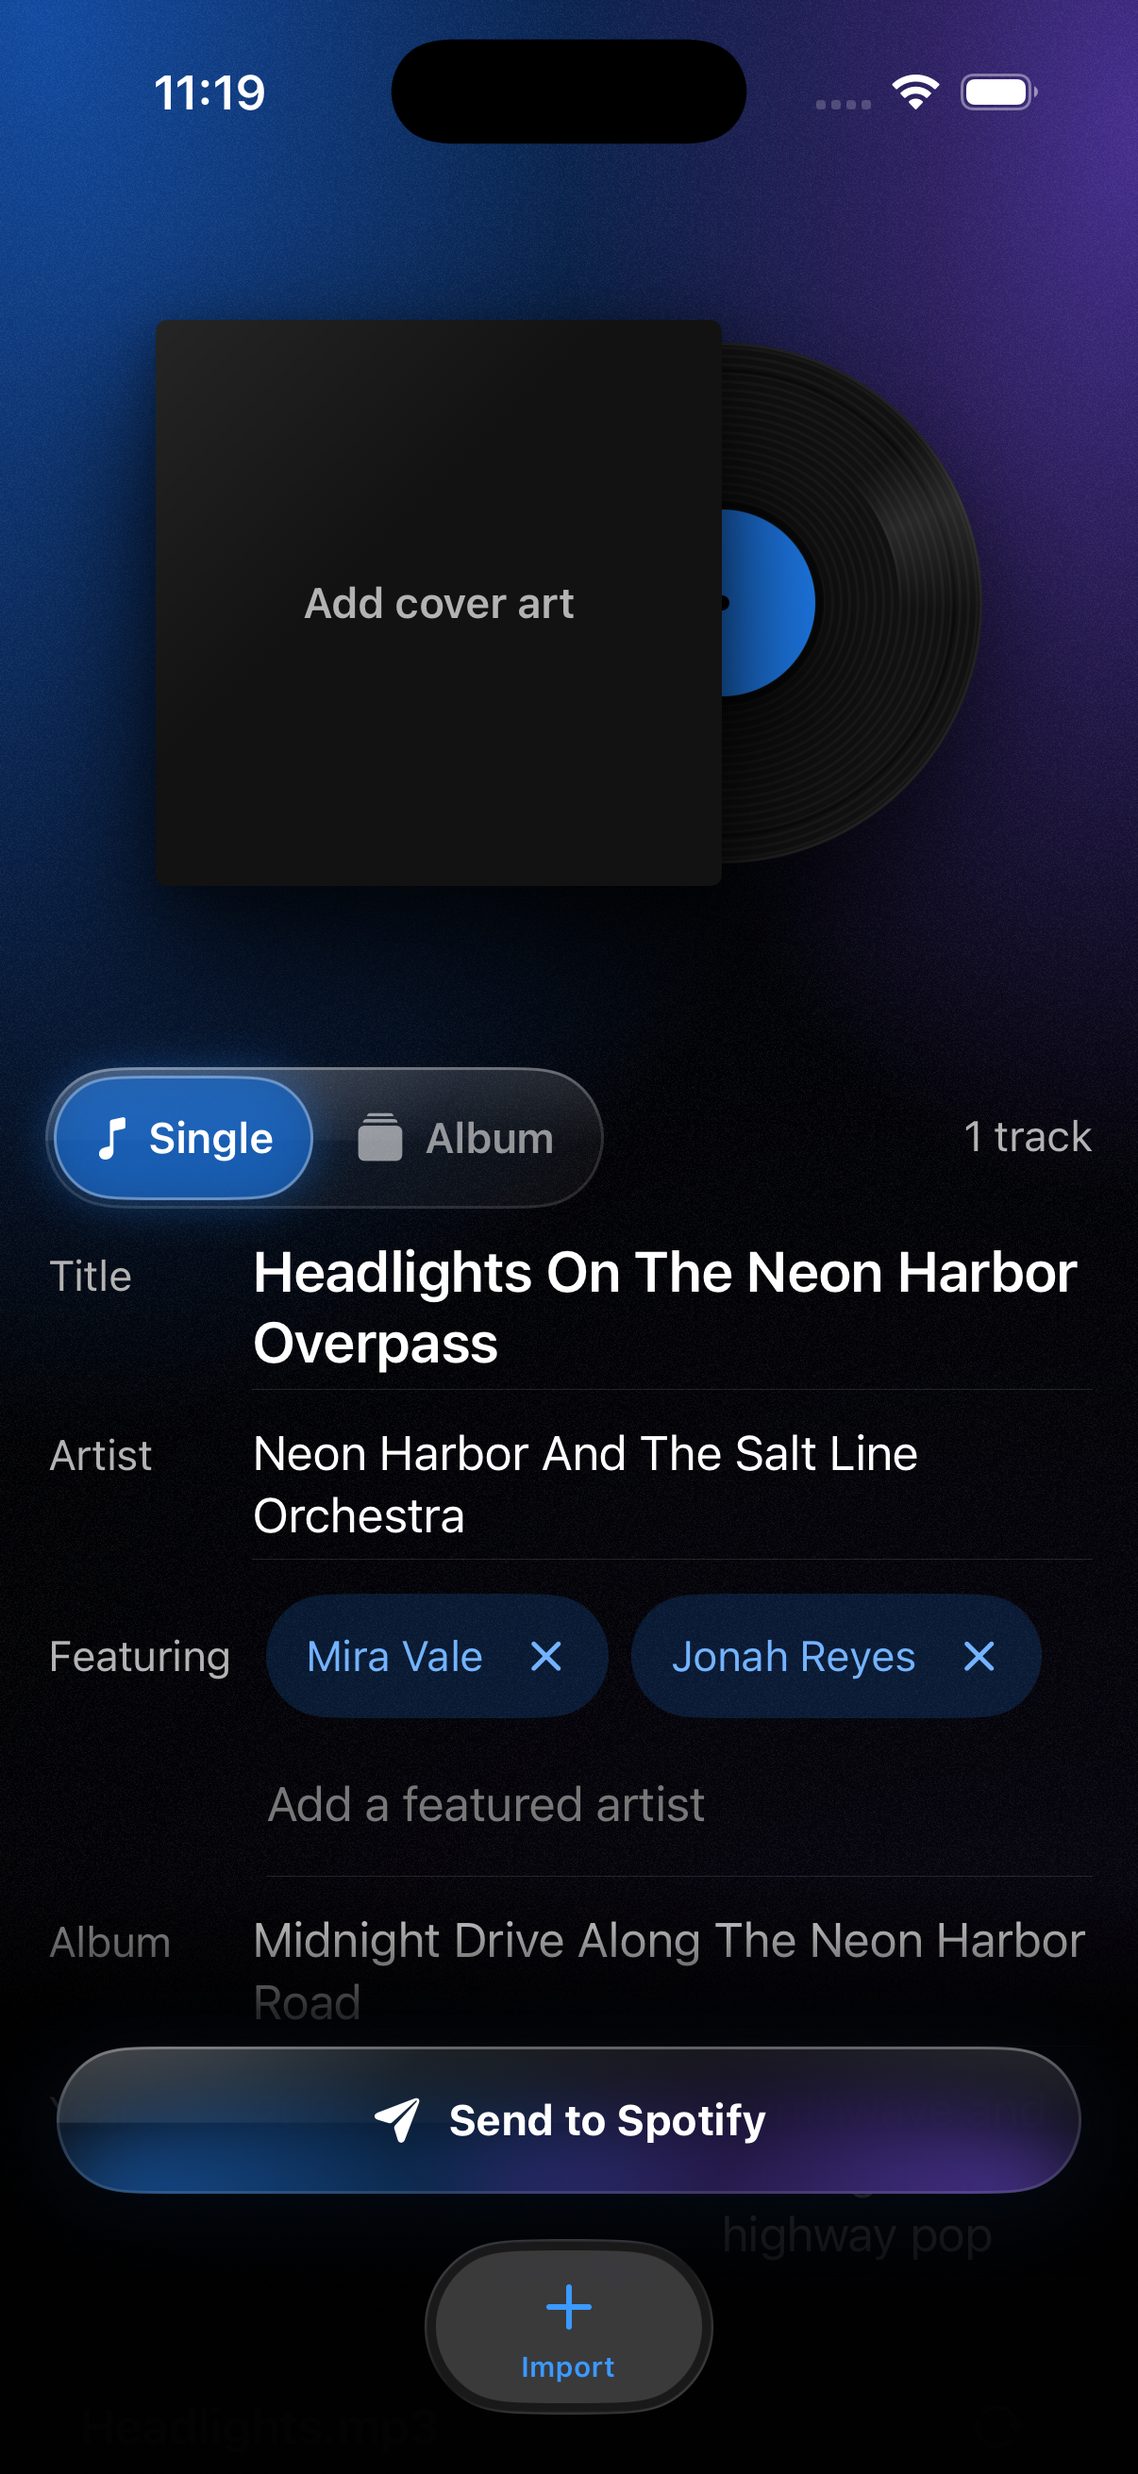
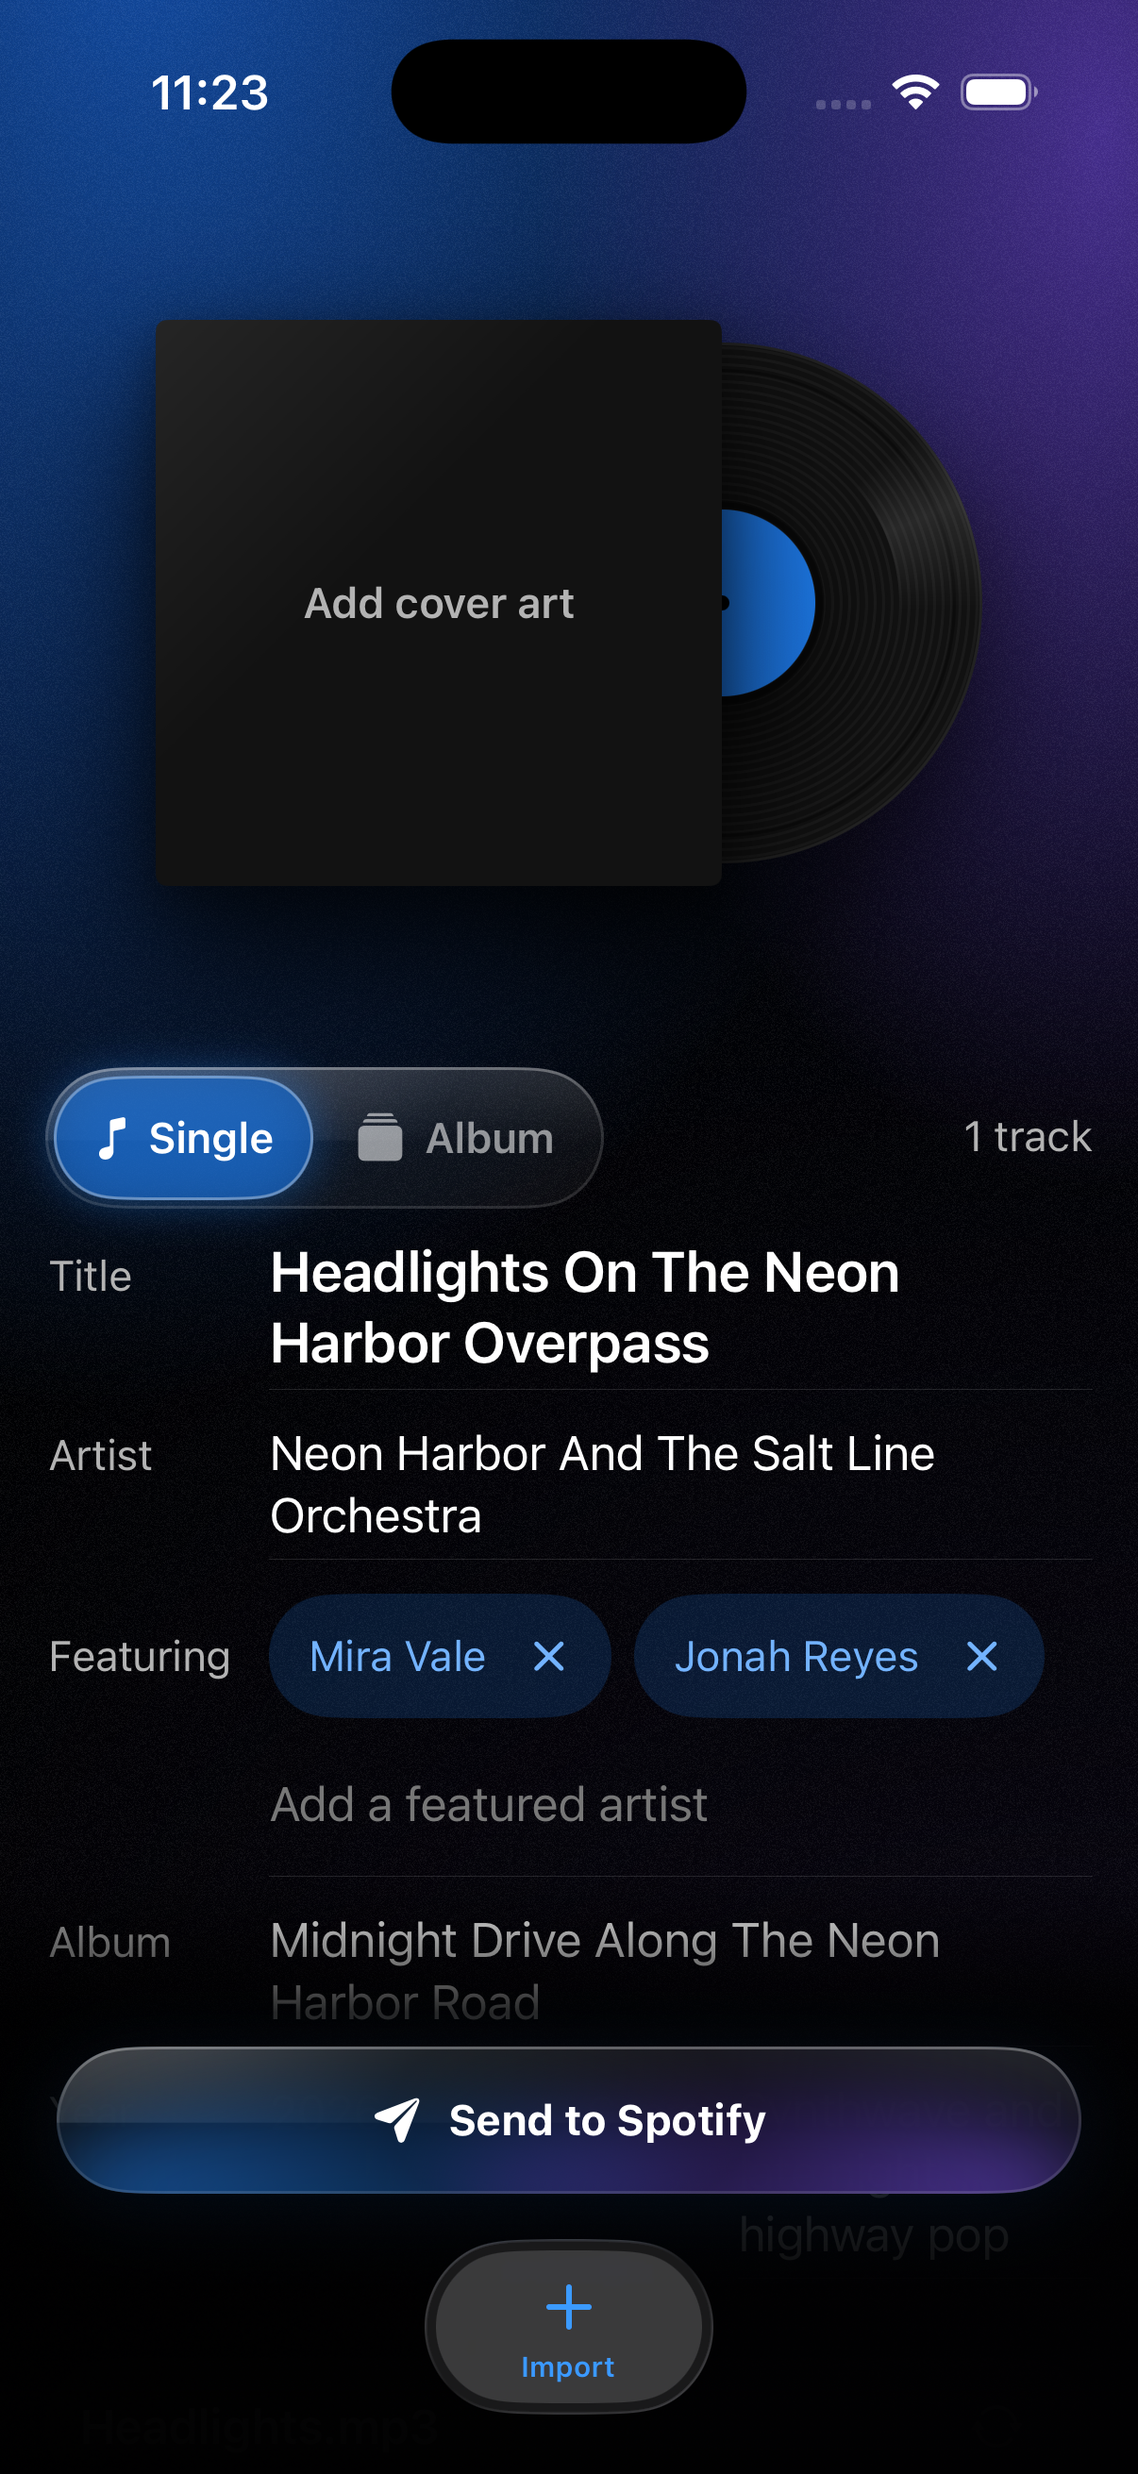
Featuring on the iPhone: aligned row, no hidden character, legacy singles kept (#287)
Claude-Session: https://claude.ai/code/session_016wtvpvRFjMyGctvKw2v9pz

diff --git a/apps/ios/Locally/Views/Components/FeaturingField.swift b/apps/ios/Locally/Views/Components/FeaturingField.swift
@@ -54,7 +54,7 @@ enum FlowLayoutFill: LayoutValueKey {
 
 /// The Featuring row (#287), in `LabeledField`'s style: the names as capsule pills that wrap, each
 /// with a remove button, and a text field to add more. Return or a comma adds the typed name,
-/// Delete in an empty field removes the last pill, and the keyboard offers the library's artists.
+/// the remove buttons take pills away, and the keyboard offers the library's artists.
 /// Read-only, it is the plain "Featuring B, C" row, left out when there are no names.
 struct FeaturingField: View {
     @Binding var names: [String]
@@ -65,7 +65,6 @@ struct FeaturingField: View {
     var autofocus = false
 
     @FocusState private var focused: Bool
-    @State private var raw = FeaturingNames.backspaceSentinel
     @State private var index: [ArtistEntry]?
     @Environment(\.appContainer) private var container
     @Environment(\.displayScale) private var displayScale
@@ -83,7 +82,7 @@ struct FeaturingField: View {
                     index = ArtistIndex.build((try? container.library.all()) ?? [])
                 }
         } else if !names.isEmpty {
-            LabeledField(Copy.Featuring.field, placeholder: "", text: .constant(Copy.Featuring.viewValue(names)), wraps: true, labelFits: true, isEditable: false)
+            LabeledField(Copy.Featuring.field, placeholder: "", text: .constant(Copy.Featuring.viewValue(names)), wraps: true, isEditable: false)
         }
     }
 
@@ -98,9 +97,7 @@ struct FeaturingField: View {
                 }
             } else {
                 HStack(alignment: .top, spacing: Theme.Immersive.labeledFieldLabelGap) {
-                    // "Featuring" is wider than the shared label column: it takes its own width rather than
-                    // breaking mid-word.
-                    label.frame(minWidth: labelWidth, alignment: .leading).fixedSize(horizontal: true, vertical: false)
+                    label.frame(width: labelWidth, alignment: .leading)
                     value
                 }
             }
@@ -164,50 +161,33 @@ struct FeaturingField: View {
         .background(Capsule().fill(Theme.accent.opacity(0.18)))
     }
 
-    /// The text field. Its text always starts with a zero-width character, so that Delete with
-    /// nothing typed still changes the text and the last pill can go.
     private var entry: some View {
-        ZStack(alignment: .leading) {
-            if draft.isEmpty {
-                Text(Copy.Featuring.placeholder)
-                    .font(Theme.ScaledFont.input)
-                    .foregroundStyle(Theme.textDim)
-                    .allowsHitTesting(false)
-                    .accessibilityHidden(true)
+        TextField("", text: $draft, prompt: Text(Copy.Featuring.placeholder).foregroundColor(Theme.textDim))
+            .font(Theme.ScaledFont.input)
+            .foregroundStyle(Theme.primaryText)
+            .focused($focused)
+            .submitLabel(.done)
+            .autocorrectionDisabled()
+            .accessibilityLabel(Copy.Featuring.placeholder)
+            .frame(minWidth: 140, minHeight: 44, alignment: .leading)
+            .onChange(of: draft) { _, newValue in absorbCommas(newValue) }
+            .onSubmit {
+                commit()
+                focused = true
             }
-            TextField("", text: $raw)
-                .font(Theme.ScaledFont.input)
-                .foregroundStyle(Theme.primaryText)
-                .focused($focused)
-                .submitLabel(.done)
-                .autocorrectionDisabled()
-                .accessibilityLabel(Copy.Featuring.placeholder)
-                .accessibilityValue(draft)
-                .onSubmit {
-                    commit()
-                    focused = true
-                }
-        }
-        .frame(minWidth: 140, minHeight: 44, alignment: .leading)
-        .onChange(of: raw) { _, newValue in read(newValue) }
-        .onChange(of: draft) { _, newValue in
-            if FeaturingNames.readField(raw).typed != newValue { raw = FeaturingNames.backspaceSentinel + newValue }
-        }
-        .onChange(of: focused) { _, isFocused in
-            if !isFocused { commit() }
-        }
-        .toolbar {
-            if focused, !pills.isEmpty {
-                ToolbarItemGroup(placement: .keyboard) {
-                    ArtistPillRow(entries: pills) { entry in
-                        names = FeaturingNames.add(entry.display, to: names)
-                        draft = ""
-                        raw = FeaturingNames.backspaceSentinel
+            .onChange(of: focused) { _, isFocused in
+                if !isFocused { commit() }
+            }
+            .toolbar {
+                if focused, !pills.isEmpty {
+                    ToolbarItemGroup(placement: .keyboard) {
+                        ArtistPillRow(entries: pills) { entry in
+                            names = FeaturingNames.add(entry.display, to: names)
+                            draft = ""
+                        }
                     }
                 }
             }
-        }
-        .onAppear { raw = FeaturingNames.backspaceSentinel + draft }
     }
 
     private var pills: [ArtistEntry] {
@@ -217,26 +197,18 @@ struct FeaturingField: View {
         return Array(found.filter { !taken.contains($0.key) }.prefix(Self.pillLimit))
     }
 
-    private func read(_ newValue: String) {
-        let field = FeaturingNames.readField(newValue)
-        if field.deletedEmpty {
-            names = FeaturingNames.removeLast(names)
-            raw = FeaturingNames.backspaceSentinel
-            draft = ""
-            return
-        }
+    /// A comma ends a name: the complete ones become pills, the rest stays in the field.
+    private func absorbCommas(_ newValue: String) {
+        guard newValue.contains(",") else { return }
         var updated = names
-        let rest = FeaturingNames.absorbCommas(field.typed, into: &updated)
-        if updated != names { names = updated }
+        let rest = FeaturingNames.absorbCommas(newValue, into: &updated)
+        names = updated
         draft = rest
-        let wanted = FeaturingNames.backspaceSentinel + rest
-        if raw != wanted { raw = wanted }
     }
 
     private func commit() {
         names = FeaturingNames.commit(draft, to: names)
         draft = ""
-        raw = FeaturingNames.backspaceSentinel
     }
 }
 

diff --git a/apps/ios/LocallyTests/FeaturingFieldTests.swift b/apps/ios/LocallyTests/FeaturingFieldTests.swift
@@ -26,16 +26,15 @@ struct FeaturingFieldTests {
         #expect(FeaturingNames.commit("B, C,  D", to: []) == ["B", "C", "D"])
     }
 
-    @Test func removeLastTakesTheLastPill() {
-        #expect(FeaturingNames.removeLast(["B", "C"]) == ["B"])
-        #expect(FeaturingNames.removeLast([]).isEmpty)
+    @Test func noSavedNameCanHoldAZeroWidthSpace() {
+        #expect(FeaturingNames.add("\u{200B}Mira\u{200B} Vale\u{200B}", to: []) == ["Mira Vale"])
+        #expect(FeaturingNames.add("\u{200B}", to: ["B"]) == ["B"])
+        #expect(FeaturingNames.commit("\u{200B}C\u{200B}, \u{200B}D", to: []) == ["C", "D"])
+        #expect(FeaturingNames.add("\u{200B}mira vale", to: ["Mira Vale"]) == ["Mira Vale"])
     }
 
-    @Test func deleteInAnEmptyFieldIsTheSentinelGone() {
-        #expect(FeaturingNames.readField(FeaturingNames.backspaceSentinel).deletedEmpty == false)
-        #expect(FeaturingNames.readField("").deletedEmpty)
-        let typed = FeaturingNames.readField(FeaturingNames.backspaceSentinel + "Mi")
-        #expect(typed.typed == "Mi" && !typed.deletedEmpty)
+    @Test func removeTakesOnePillAway() {
+        #expect(FeaturingNames.remove("B", from: ["B", "C"]) == ["C"])
     }
 
     @Test func displayAndMergeUseTheTitleWording() {
@@ -219,5 +218,56 @@ struct FeaturingFieldTests {
         let titles = try #require(rig.library.all().first).tracks.sorted { $0.trackNumber < $1.trackNumber }.map(\.title)
         #expect(titles == ["One (feat. B, C, D)", "Two (feat. E)"])
         #expect(try rig.library.all().first?.title == "Album")
+    }
+
+    // MARK: Legacy singles
+
+    /// A single saved before the Featuring field: release title and track title both "Song (feat. B)".
+    private func legacySingle(_ rig: Rig) async throws -> Release {
+        let url = try makeSourceFile()
+        let release = try await rig.coordinator.importSingle(file: url, tags: TagSet(title: "Song", artist: "A", album: "Song", year: "2020"), cover: nil)
+        var legacy = release
+        legacy.title = "Song (feat. B)"
+        legacy.tracks[0].title = "Song (feat. B)"
+        try rig.library.upsert(legacy)
+        return legacy
+    }
+
+    @Test func aNoChangeSaveLeavesALegacySinglesTitlesAlone() async throws {
+        let rig = Rig()
+        let release = try await legacySingle(rig)
+        let model = ReleaseDetailViewModel(release: release, coordinator: rig.coordinator, coverStore: rig.coverStore)
+        #expect(model.title == "Song")
+        #expect(model.singleFeaturing == ["B"])
+        #expect(!model.hasChanges)
+
+        model.beginEditing()
+        model.year = "2021"
+        await model.save()
+
+        let last = try #require(rig.tagWriter.calls.last).tags
+        #expect(last.title == "Song (feat. B)")
+        #expect(last.album == "Song (feat. B)")
+        #expect(last.year == "2021")
+        let saved = try #require(rig.library.all().first)
+        #expect(saved.title == "Song (feat. B)")
+        #expect(saved.tracks.first?.title == "Song (feat. B)")
+        #expect(saved.year == "2021")
+    }
+
+    @Test func editingALegacySinglesTitleMakesTheReleaseTitlePlainAndTheTrackTitleJoined() async throws {
+        let rig = Rig()
+        let release = try await legacySingle(rig)
+        let model = ReleaseDetailViewModel(release: release, coordinator: rig.coordinator, coverStore: rig.coverStore)
+
+        model.title = "Tune"
+        await model.save()
+
+        let last = try #require(rig.tagWriter.calls.last).tags
+        #expect(last.title == "Tune (feat. B)")
+        #expect(last.album == "Tune")
+        let saved = try #require(rig.library.all().first)
+        #expect(saved.title == "Tune")
+        #expect(saved.tracks.first?.title == "Tune (feat. B)")
     }
 }

diff --git a/apps/ios/Locally/Views/Components/ComponentGallery.swift b/apps/ios/Locally/Views/Components/ComponentGallery.swift
@@ -18,7 +18,7 @@ struct ComponentGallery: View {
         // #269: the Library's "From your devices" button and tray, over sample pending records.
         "devices-header-0", "devices-header-1", "devices-header-3", "devices-tray-open", "devices-tray-large-text", "devices-tray-failed",
         // #287: the Featuring field. The import cases are `import-record-featuring` and `import-record-album-featuring-sheet`.
-        "release-featuring-view"]
+        "release-featuring-view", "featuring-fields-ax"]
 
     let name: String
     @State private var title = "Midnight Drive"
@@ -37,7 +37,7 @@ struct ComponentGallery: View {
 
     /// The #160 screens draw their own backdrop.
     private var drawsOwnBackdrop: Bool {
-        name.hasPrefix("stats-") || name.hasPrefix("icons-") || name.hasPrefix("devices-") || ["studio-backdrop", "settings-signed-in", "settings-signed-out", "settings-code-sent", "settings-scrolled", "release-tracks", "controls", "release-featuring-view"].contains(name)
+        name.hasPrefix("stats-") || name.hasPrefix("icons-") || name.hasPrefix("devices-") || ["studio-backdrop", "settings-signed-in", "settings-signed-out", "settings-code-sent", "settings-scrolled", "release-tracks", "controls", "release-featuring-view", "featuring-fields-ax"].contains(name)
     }
 
     var body: some View {
@@ -144,6 +144,8 @@ struct ComponentGallery: View {
             ReleaseReviewErrorGallery()
         case "controls":
             ControlsGallery()
+        case "featuring-fields-ax":
+            FeaturingFieldsGallery()
         case "release-featuring-view":
             IconsGallery.featuringRelease()
         case "icons-tabs-library", "icons-library-list":
@@ -574,6 +576,30 @@ private struct ReleaseReviewErrorGallery: View {
     var body: some View {
         ReleaseReviewSheet(model: model, glowColors: Theme.coverGlowColors(nil)) {}
             .background(Theme.card)
+    }
+}
+
+/// `featuring-fields-ax`: Title, Artist and the Featuring row (edit and view) at an accessibility
+/// size, where the label sits above its value. The import record scrolls past these at that size.
+private struct FeaturingFieldsGallery: View {
+    @State private var names = ["Mira Vale", "Jonah Reyes"]
+    @State private var draft = ""
+    @State private var title = "Headlights"
+    @State private var artist = "Neon Harbor"
+
+    var body: some View {
+        ZStack {
+            StudioBackdrop()
+            VStack(alignment: .leading, spacing: Theme.Immersive.labeledFieldRowGap) {
+                LabeledField(Copy.Import.fieldTitle, placeholder: "", text: $title, font: Theme.ScaledFont.fieldTitle, metricsStyle: .title3, wraps: true)
+                LabeledField(Copy.Import.fieldArtist, placeholder: "", text: $artist, wraps: true)
+                FeaturingField(names: $names, draft: $draft)
+                FeaturingField(names: $names, draft: $draft, isEditable: false)
+            }
+            .padding(Theme.Spacing.pagePadding)
+            .frame(maxWidth: .infinity, maxHeight: .infinity, alignment: .topLeading)
+            .dynamicTypeSize(.accessibility2)
+        }
     }
 }
 

diff --git a/apps/ios/Locally/Domain/FeaturingNames.swift b/apps/ios/Locally/Domain/FeaturingNames.swift
@@ -4,10 +4,6 @@ import Foundation
 /// (same `artistKey`) is skipped, and a comma ends a name. Kept apart from the view so the
 /// editors and their tests share them.
 enum FeaturingNames {
-    /// A zero-width character the field keeps at the start of its text, so that Delete in an
-    /// "empty" field is a change SwiftUI can see (see `FeaturingField`).
-    static let backspaceSentinel = "\u{200B}"
-
     /// `names` plus `name`, trimmed; unchanged when the name is empty or its key is already there.
     static func add(_ name: String, to names: [String]) -> [String] {
         let trimmed = clean(name)
@@ -32,11 +28,6 @@ enum FeaturingNames {
         return add(rest, to: result)
     }
 
-    /// Delete in an empty field takes the last name away.
-    static func removeLast(_ names: [String]) -> [String] {
-        Array(names.dropLast())
-    }
-
     static func remove(_ name: String, from names: [String]) -> [String] {
         names.filter { $0 != name }
     }
@@ -51,13 +42,6 @@ enum FeaturingNames {
         ArtistNames.joinNames(names)
     }
 
-    /// What the field text means once the sentinel is accounted for: the typed text, and whether
-    /// Delete was pressed with nothing typed (the sentinel gone and nothing in its place).
-    static func readField(_ raw: String) -> (typed: String, deletedEmpty: Bool) {
-        if raw.hasPrefix(backspaceSentinel) { return (String(raw.dropFirst(backspaceSentinel.count)), false) }
-        return (raw, raw.isEmpty)
-    }
-
     /// A track's full title for the file's tag: unchanged when the text the editor split it
     /// into is unchanged (so "B, C, D" is not reworded to "B, C & D"), else the joined form.
     static func fullTitle(plain: String, featuring: [String], original: String?) -> String {
@@ -68,7 +52,8 @@ enum FeaturingNames {
         return ArtistNames.joinFeaturing(plain, featuring)
     }
 
+    /// Trimmed, with any zero-width space (U+200B) removed: no saved name ever holds one.
     private static func clean(_ name: String) -> String {
-        name.replacingOccurrences(of: backspaceSentinel, with: "").trimmingCharacters(in: .whitespacesAndNewlines)
+        name.replacingOccurrences(of: "\u{200B}", with: "").trimmingCharacters(in: .whitespacesAndNewlines)
     }
 }

diff --git a/apps/ios/Locally/Views/Library/ReleaseDetailViewModel.swift b/apps/ios/Locally/Views/Library/ReleaseDetailViewModel.swift
@@ -312,8 +312,10 @@ final class ReleaseDetailViewModel {
         }
 
         let originalDiscs = Dictionary(originalTrackRows.compactMap { row in row.discNumber.map { (row.id, $0) } }, uniquingKeysWith: { first, _ in first })
+        // The Title field shows a legacy single's "Song (feat. B)" as "Song". Left alone, the release
+        // title stays as it was saved; edited, it is the plain title typed.
         let changes = ReleaseChanges(
-            title: title,
+            title: title == originalTitle ? release.title : title,
             artist: artist,
             year: year,
             genre: genre,

diff --git a/apps/ios/Locally/Resources/Theme.swift b/apps/ios/Locally/Resources/Theme.swift
@@ -269,7 +269,7 @@ enum Theme {
         static let inlineFieldUnderlineGap: CGFloat = 4
         static let inlineFieldFocusFade: Double = 0.15
         /// Labelled fields: the label column, the gap between rows, and the always-visible underline.
-        static let labeledFieldLabelWidth: CGFloat = 60
+        static let labeledFieldLabelWidth: CGFloat = 66
         static let labeledFieldRowGap: CGFloat = 12
         /// Year's value width when it shares its row with Genre: room for "Enter year" at body.
         static let yearValueWidth: CGFloat = 92
